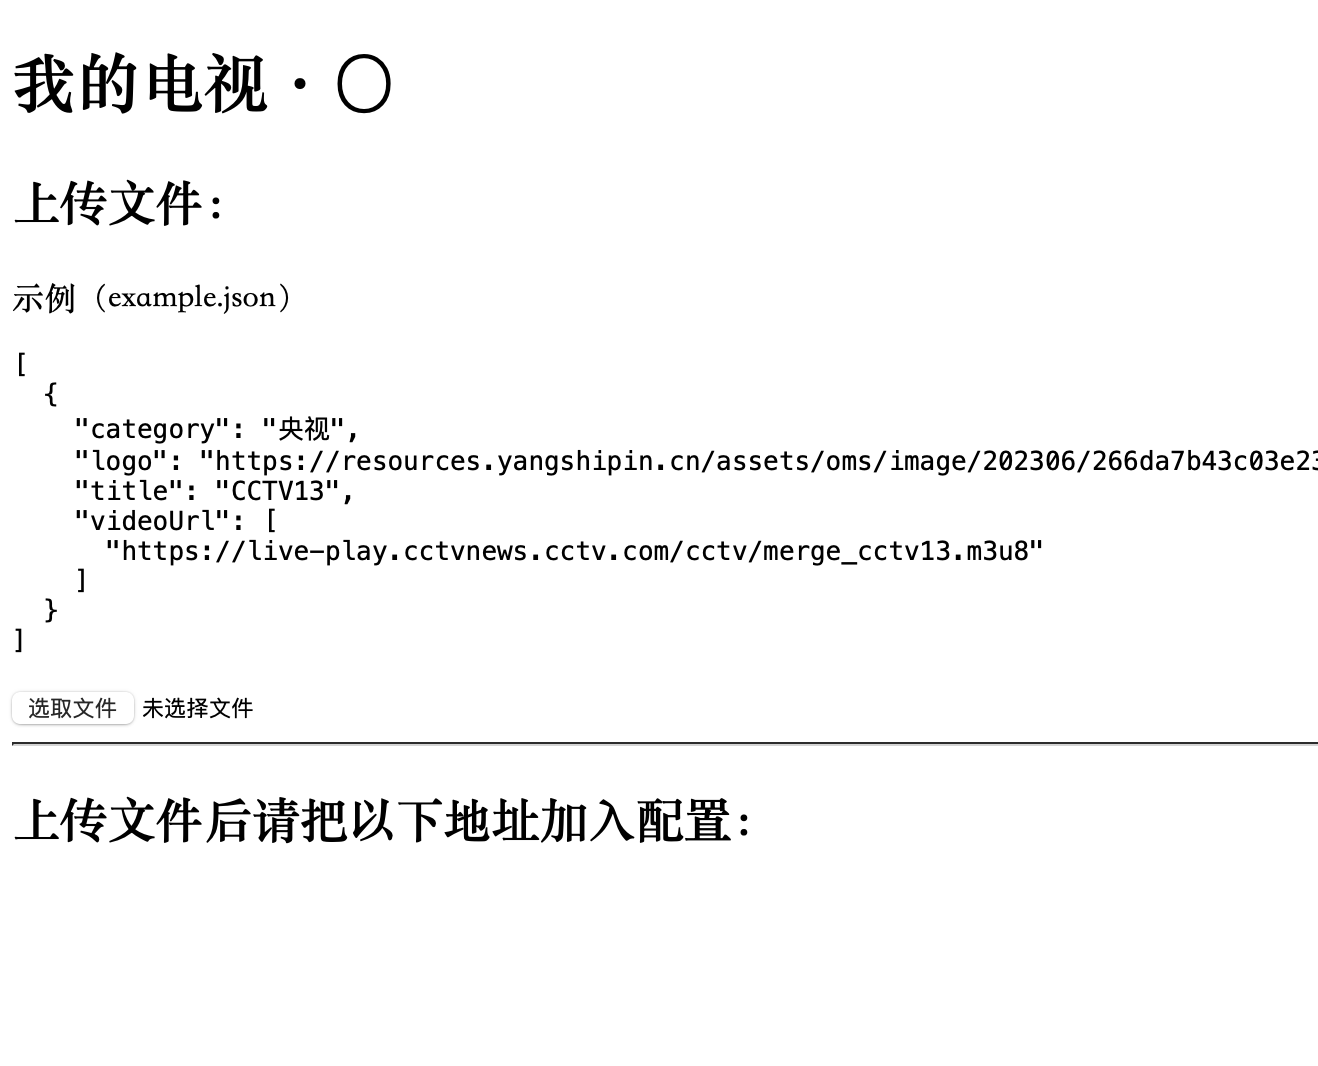
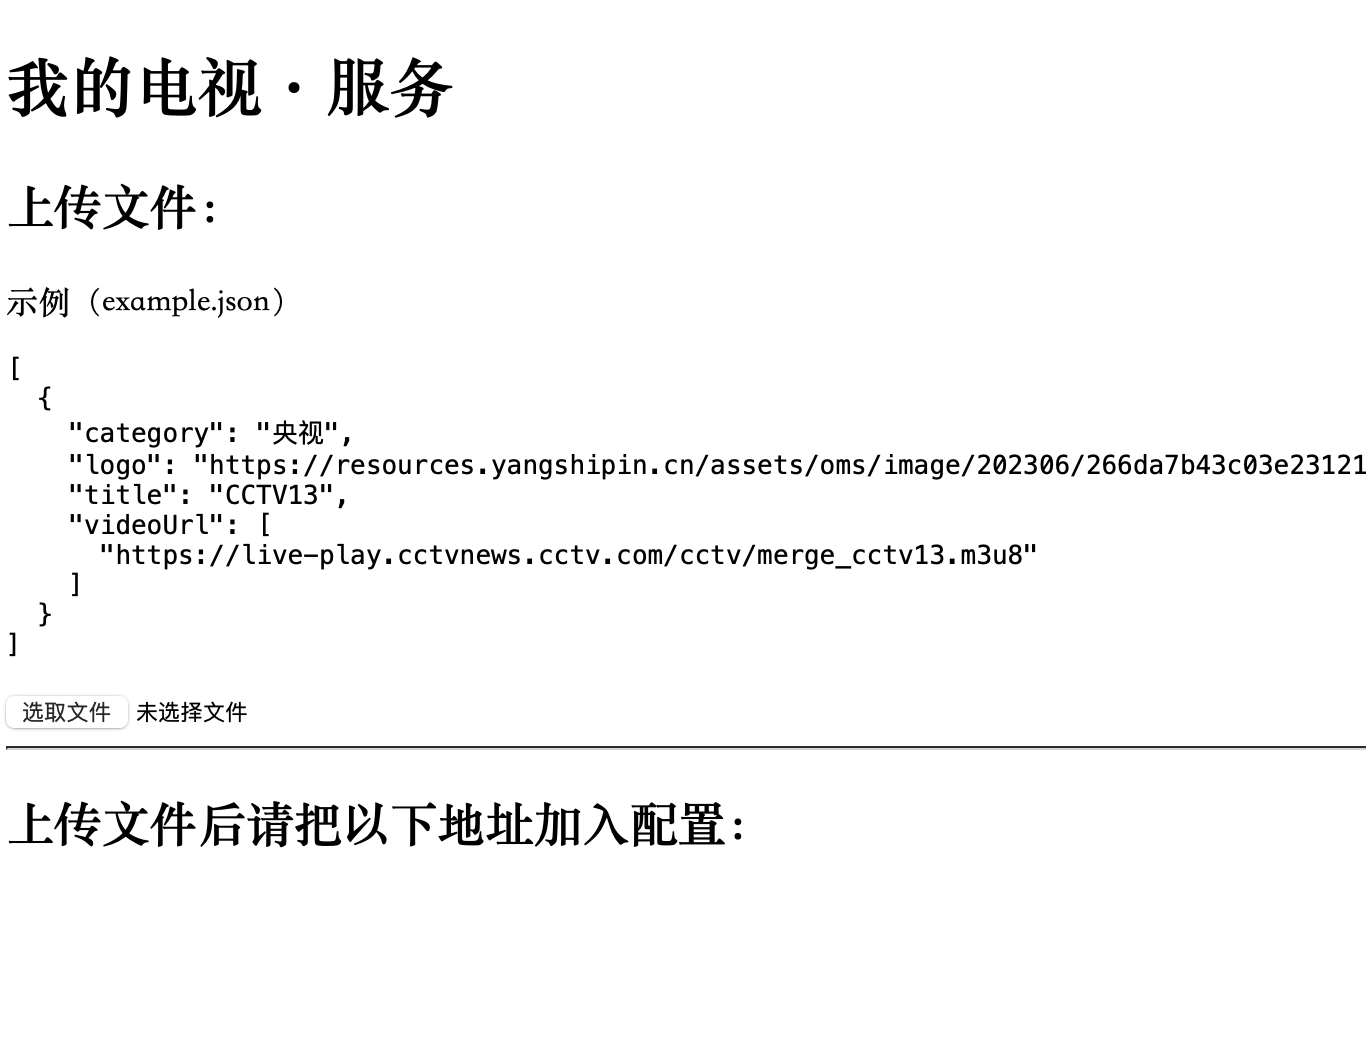
support internet access

diff --git a/statics/mytv/index.js b/statics/mytv/index.js
@@ -1,5 +1,7 @@
 const input = document.getElementById('input');
+const local = document.getElementById('local');
 const lan = document.getElementById('lan');
+const internet = document.getElementById('internet');
 
 input.onchange = async function handleFiles(e) {
     const files = e.target.files;
@@ -29,9 +31,19 @@ const sendFile = async (body) => {
     });
     const json = await response.json();
     console.log(json);
-    const url = json?.data?.channels_url
-    if (url) {
-        lan.href = `http://${url}`;
-        lan.innerText = url;
+    const localUrl = json?.data?.local_url
+    if (localUrl) {
+        local.href = `http://${localUrl}`;
+        local.innerText = localUrl;
+    }
+    const lanUrl = json?.data?.lan_url
+    if (lanUrl) {
+        lan.href = `http://${lanUrl}`;
+        lan.innerText = lanUrl;
+    }
+    const internetUrl = json?.data?.internet_url
+    if (internetUrl) {
+        internet.href = `http://${internetUrl}`;
+        internet.innerText = internetUrl;
     }
 }

diff --git a/statics/mytv/index.html b/statics/mytv/index.html
@@ -2,10 +2,10 @@
 <html lang="zh-CN">
 <head>
     <meta charset="UTF-8">
-    <title>我的电视</title>
+    <title>我的电视·服务</title>
 </head>
 <body>
-<h1>我的电视·〇</h1>
+<h1>我的电视·服务</h1>
 <h2>上传文件：</h2>
 <p>示例（example.json）</p>
 <pre>[
@@ -21,8 +21,9 @@
 <input type="file" id="input" multiple/>
 <hr/>
 <h2>上传文件后请把以下地址加入配置：</h2>
-<a id="lan" target="_blank"></a>
-
+<p>Local: <a id="local" target="_blank"></a></p>
+<p>Lan: <a id="lan" target="_blank"></a></p>
+<p>Internet: <a id="internet" target="_blank"></a></p>
 </body>
 <script src="/mytv/index.js"></script>
 </html>

diff --git a/internal/mytv/mytv.go b/internal/mytv/mytv.go
@@ -15,7 +15,9 @@ type Mytv struct {
 type RespUpload struct {
 	Code int `json:"code"`
 	Data struct {
-		ChannelsUrl string `json:"channels_url"`
+		LocalUrl    string `json:"local_url"`
+		LanUrl      string `json:"lan_url"`
+		InternetUrl string `json:"internet_url"`
 	} `json:"data"`
 }
 
@@ -36,7 +38,9 @@ func (m *Mytv) Upload(w http.ResponseWriter, r *http.Request) {
 
 	m.channels = body
 	var resp = new(RespUpload)
-	resp.Data.ChannelsUrl = fmt.Sprintf("%s:%d/0", Lan(), m.port)
+	resp.Data.LocalUrl = fmt.Sprintf("%s:%d/0", "127.0.0.1", m.port)
+	resp.Data.LanUrl = fmt.Sprintf("%s:%d/0", Lan(), m.port)
+	resp.Data.InternetUrl = fmt.Sprintf("%s:%d/0", Internet(), m.port)
 	data, _ := json.Marshal(resp)
 	_, _ = w.Write(data)
 }

diff --git a/internal/mytv/utils.go b/internal/mytv/utils.go
@@ -1,8 +1,11 @@
 package mytv
 
 import (
+	"fmt"
+	"io"
 	"log"
 	"net"
+	"net/http"
 )
 
 func Lan() (lanIp string) {
@@ -23,6 +26,17 @@ func Lan() (lanIp string) {
 				}
 			}
 		}
+	}
+	return
+}
+
+func Internet() (ip string) {
+	resp, err := http.Get("https://api64.ipify.org?format=text")
+	defer func(Body io.ReadCloser) {
+		_ = Body.Close()
+	}(resp.Body)
+	if err == nil {
+		_, _ = fmt.Fscanf(resp.Body, "%s", &ip)
 	}
 	return
 }

diff --git a/cmd/server/main.go b/cmd/server/main.go
@@ -16,7 +16,9 @@ func main() {
 	flag.Parse()
 	port, _ := strconv.Atoi(*portPtr)
 
-	log.Printf("http://127.0.0.1:%d/mytv/index.html\n", port)
+	log.Printf("Local: http://127.0.0.1:%d/mytv/index.html\n", port)
+	log.Printf("Lan: http://%s:%d/mytv/index.html\n", mytv.Lan(), port)
+	log.Printf("Internet: http://%s:%d/mytv/index.html\n", mytv.Internet(), port)
 
 	m, _ := mytv.NewMytv(port)
 

diff --git a/README.md b/README.md
@@ -1,15 +1,20 @@
-# 我的电视服务器
+# 我的电视·服务
 
 启动一个本地的视频源服务。为了更好的稳定性、隐私性、便捷性，可以把一个视频源文件发布到一个本地地址，添加到本地视频播放器。
 
 [my-tv-server](https://github.com/lizongying/my-tv-server)
 
-## usage
+## 下载
 
-1. 启动服务
-2. 进入网址
-3. 上传文件
-4. 配置地址
+[releases](https://github.com/lizongying/my-tv-0/releases/latest)
+
+## 用法
+
+1. 下载程序
+2. 启动程序
+3. 进入网址
+4. 上传文件
+5. 配置地址
 
 ```shell
 ./my-tv-server
@@ -17,20 +22,17 @@
 
 ![image](./screenshots/img.png)
 
-## test
+## 测试
 
 ```shell
 go run ./cmd/server/*
 ```
 
-## build
+## 构建
 
 ```shell
 make
 ```
-
-## 下载
-[releases](https://github.com/lizongying/my-tv-0/releases/latest)
 
 ## 赞赏
 
